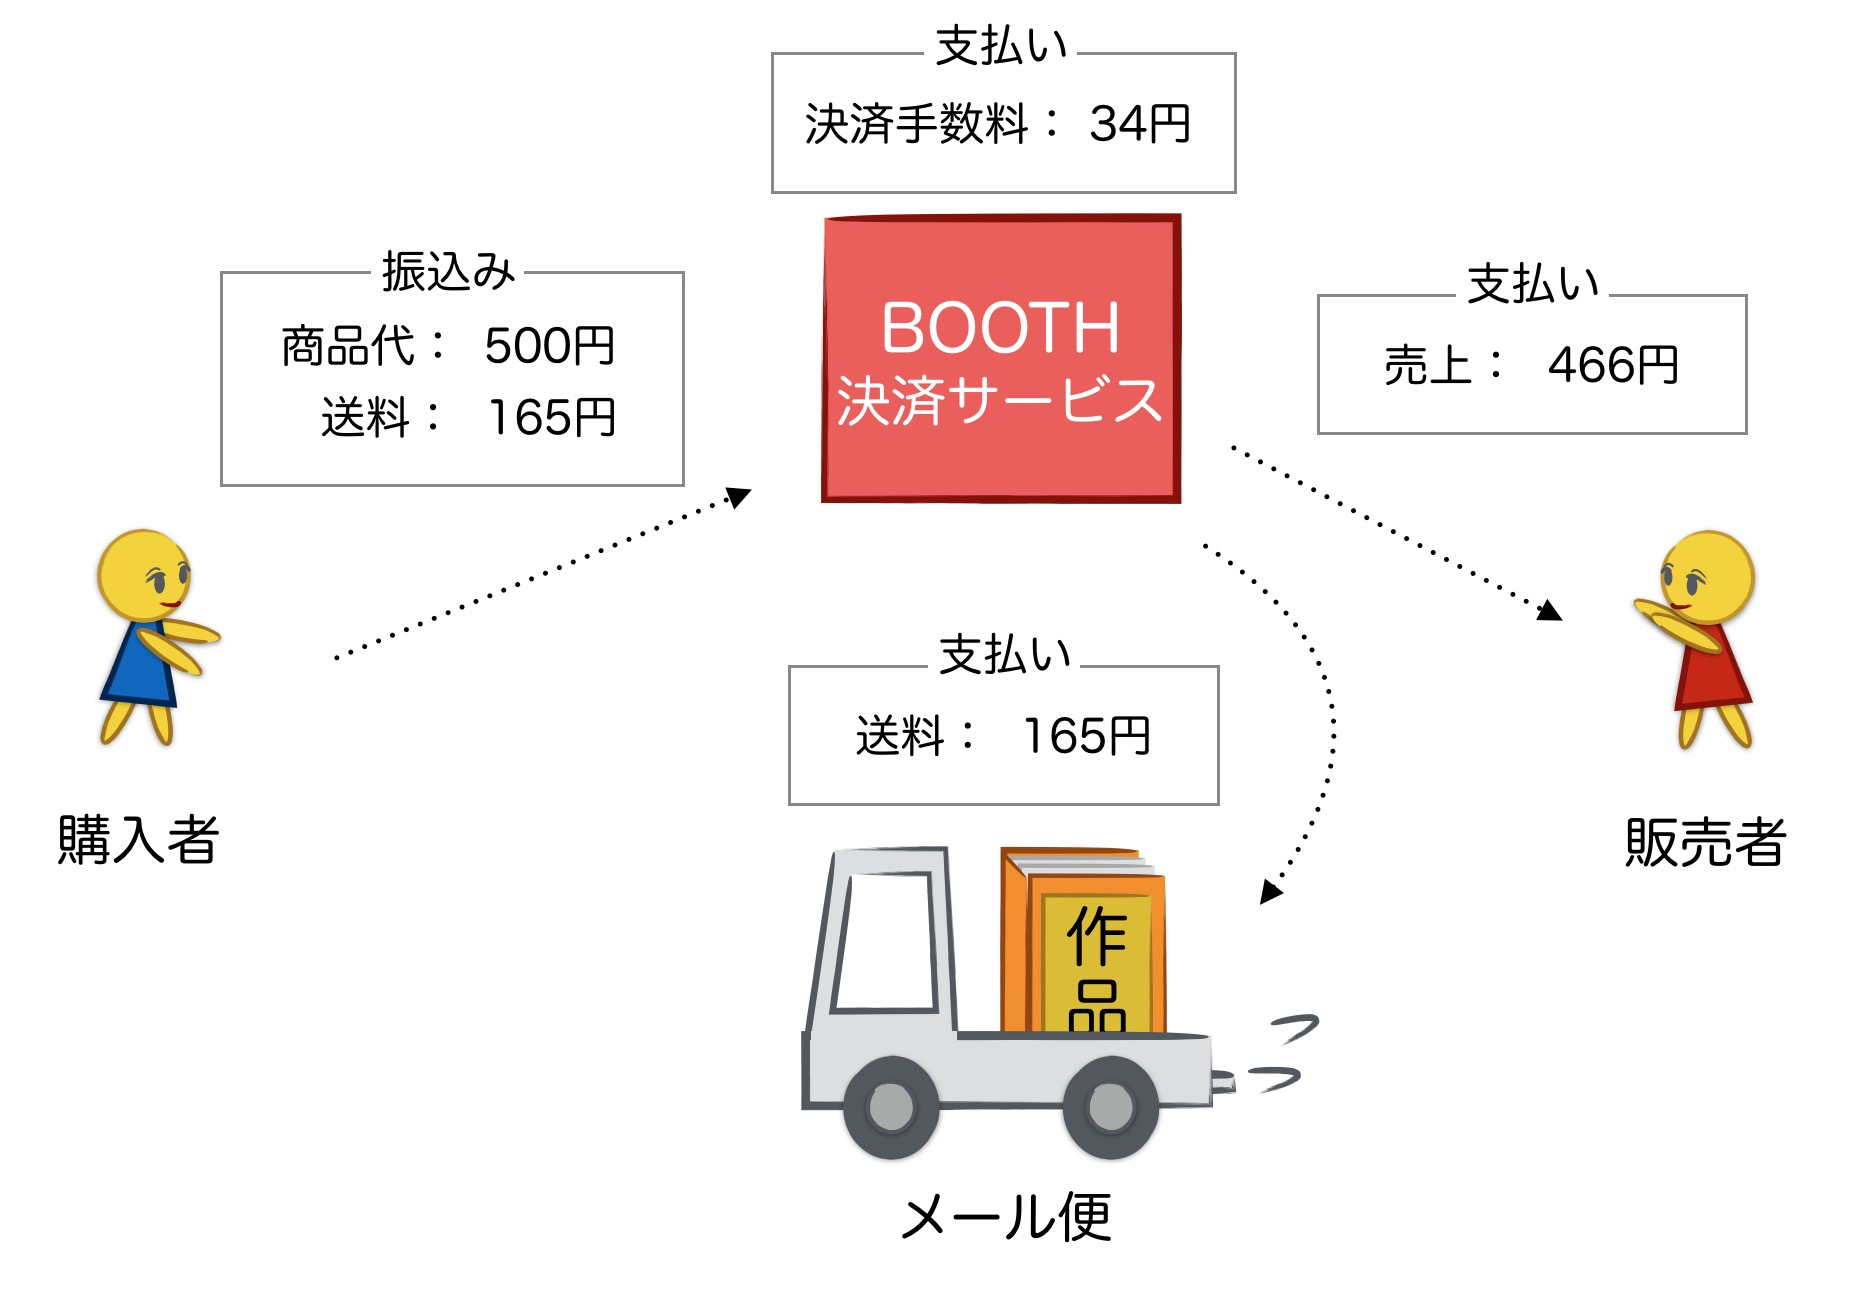
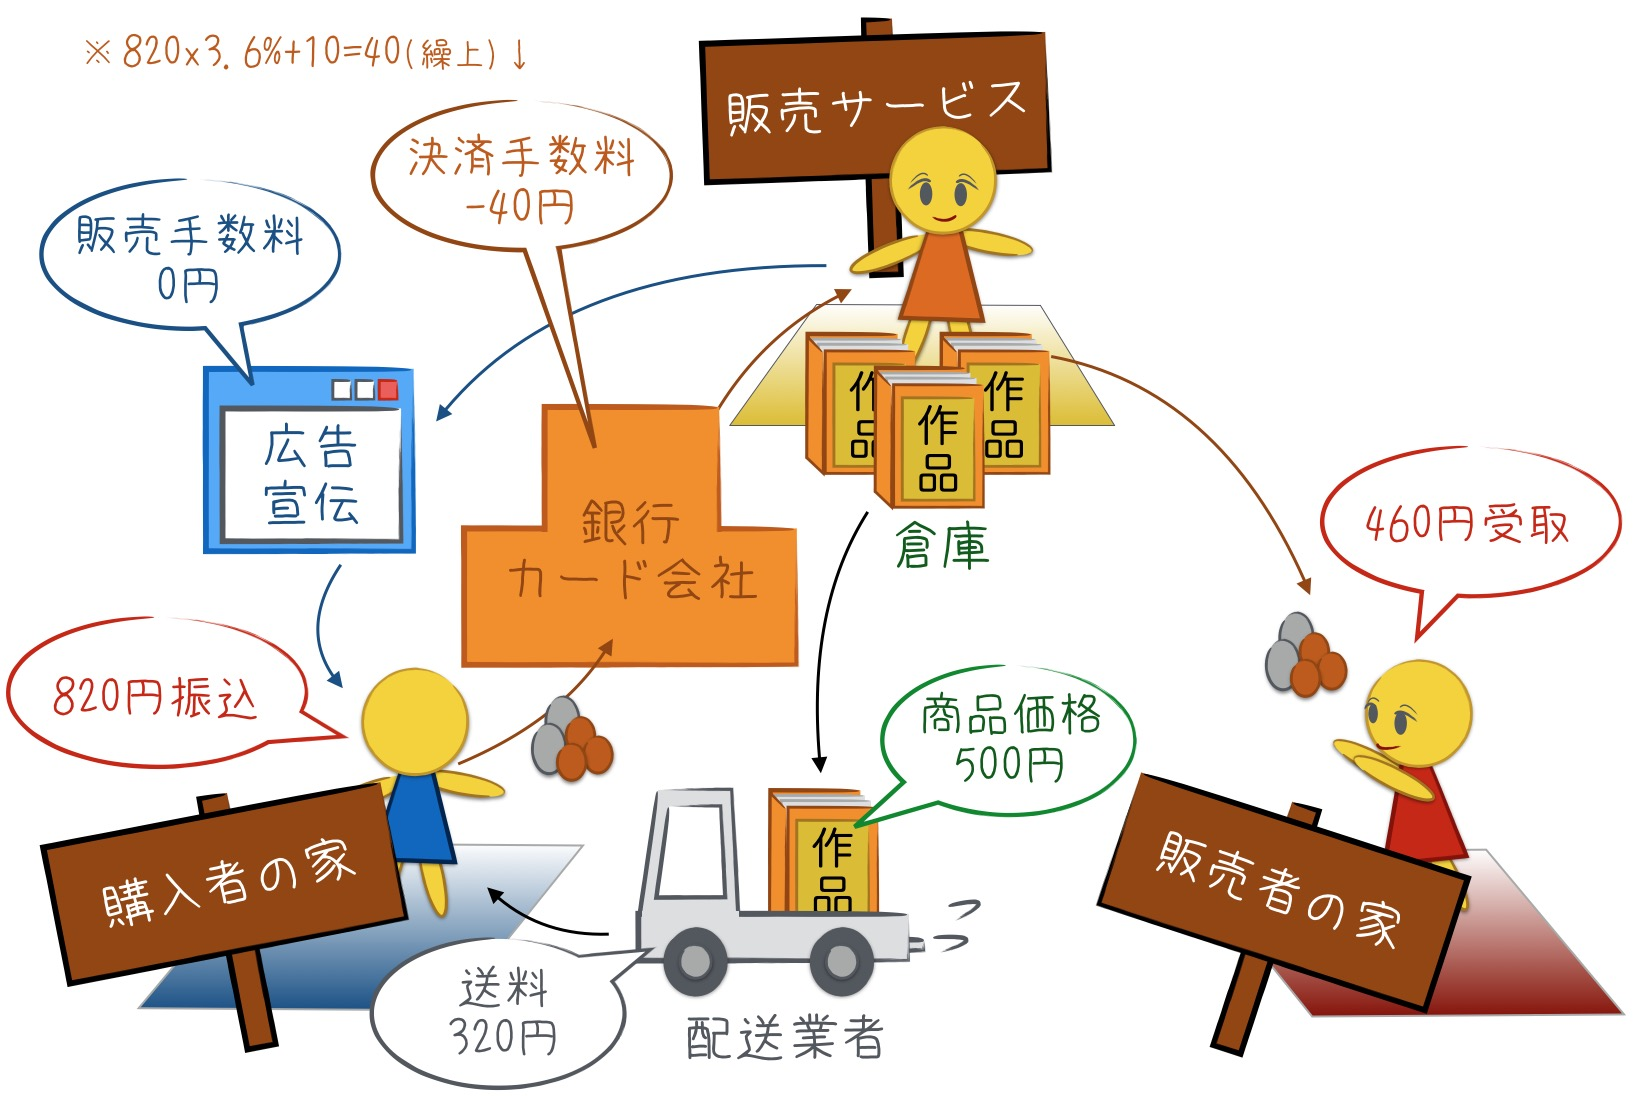
fix price, 165 -> 320 yen

diff --git a/docs/item_book_before.md b/docs/item_book_before.md
@@ -28,16 +28,16 @@ BOOTHは委託通販を行いたい人のため、「[倉庫サービス](https:
 
 ## 決済手数料
 
-「<strong>決済手数料</strong>」については、購入者が振り込んだ金額に対して、BOOTHは3.6%＋10円を請求します。購入者が振り込んだ金額なので、この中には商品の代金に加えて、送料(165円)も含まれます。つまり「(商品の代金＋165円)×3.6％＋10円」を引いたものが、あなたの受け取り分となります。
+「<strong>決済手数料</strong>」については、購入者が振り込んだ金額に対して、BOOTHは3.6%＋10円を請求します。購入者が振り込んだ金額なので、この中には商品の代金に加えて、送料(320円)も含まれます。つまり「(商品の代金＋320円)×3.6％＋10円」を引いたものが、あなたの受け取り分となります。
 
 例えば500円の同人誌をBOOTHで販売するとどういう感じになるかというと・・・
 
 !![500円の同人誌を売った場合](151113_0001.jpg)
 
-こんなかんじで、466円があなたの元に支払われるわけです。これが、100円の雑誌やサンプルだと・・・
+こんなかんじで、460円があなたの元に支払われるわけです。これが、100円の雑誌やサンプルだと・・・
 
 !![100円の同人誌を売った場合](151113_0002.jpg)
 
-売上は80円ですね。そしてそれは、倉庫へ発送などを委託するために作品を送るための送料が別途必要になります。また、同人誌であれば、印刷費もバカにはなりませんね。そういうのを売上から捻出できるよううまく調整するといいでしょう。
+売上は74円ですね。そしてそれは、倉庫へ発送などを委託するために作品を送るための送料が別途必要になります。また、同人誌であれば、印刷費もバカにはなりませんね。そういうのを売上から捻出できるよううまく調整するといいでしょう。
 
 まぁ、同人誌なんてほとんどの人は趣味でみてもらおうと思っているものなので、そこまで意識しない人もいるのでしょうが・・・
